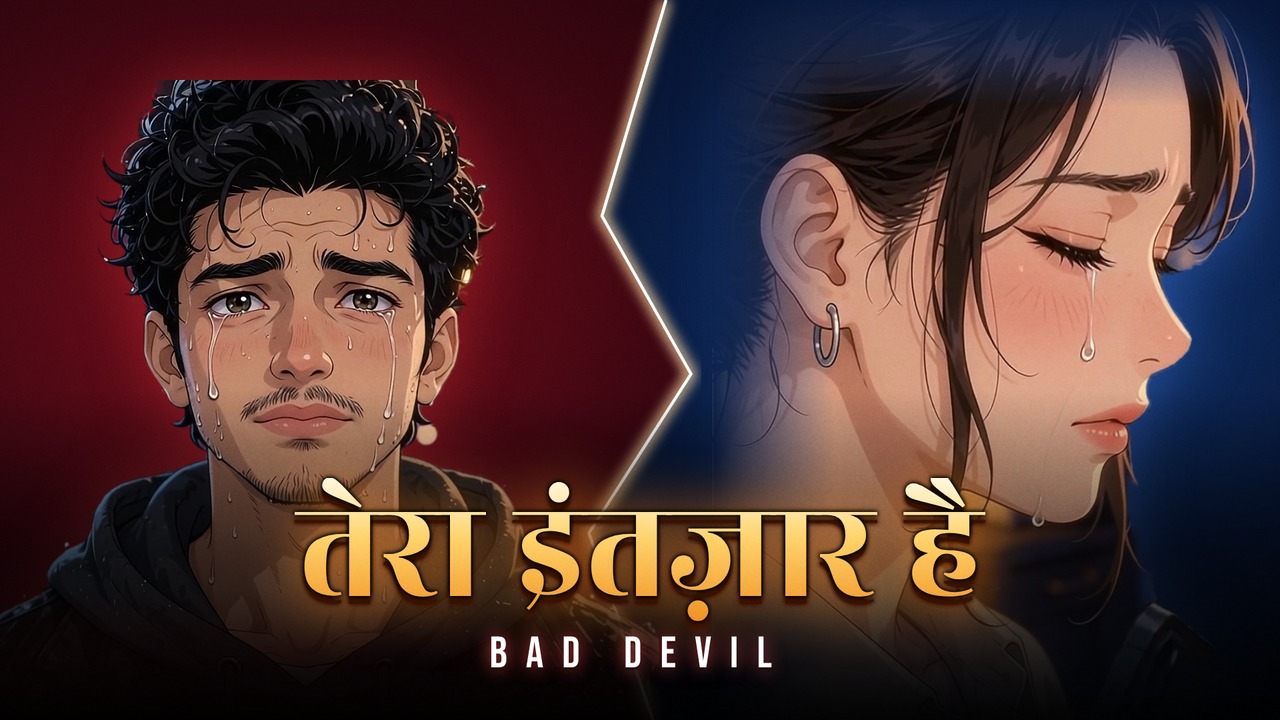
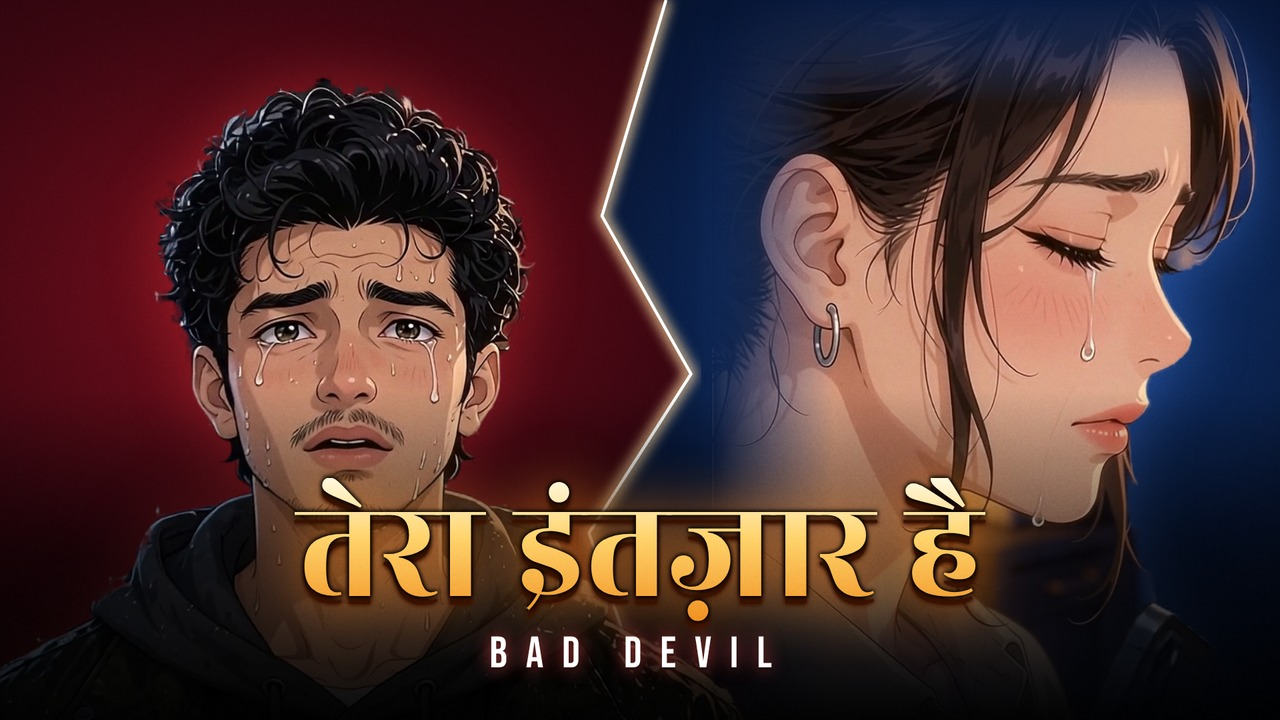
Fix cropped head in Toota Dil thumbnail
Claude-Session: https://claude.ai/code/session_017dD9umPcrcPTaToqqfxVzK

diff --git a/video-demo/thumbnails/v2/source/d1.html b/video-demo/thumbnails/v2/source/d1.html
@@ -2,7 +2,7 @@
 .L { position:absolute; inset:0; background: radial-gradient(ellipse 70% 90% at 22% 40%, #7a0f1d 0%, #3a0610 45%, #0b0204 100%); clip-path: polygon(0 0,52% 0,47% 30%,54% 52%,46% 74%,51% 100%,0 100%); }
 .R { position:absolute; inset:0; background: radial-gradient(ellipse 70% 90% at 78% 40%, #123a7a 0%, #08183a 45%, #020510 100%); clip-path: polygon(52% 0,100% 0,100% 100%,51% 100%,46% 74%,54% 52%,47% 30%); }
 svg { position:absolute; inset:0; }
-.boy { height: 640px; left: -40px; bottom: 0;  -webkit-mask-image: linear-gradient(to bottom,#000 80%,transparent 100%); }
+.boy { height: 880px; left: -95px; bottom: -235px;  -webkit-mask-image: linear-gradient(to bottom,#000 80%,transparent 100%); }
 .w-boy { position:absolute; inset:0; filter: drop-shadow(0 0 30px rgba(255,60,60,.35)); }
 .girl { height: 760px; right: 20px; bottom: -40px;  -webkit-mask-image: linear-gradient(to right, transparent 0%, #000 22%), linear-gradient(to bottom, transparent 0%, #000 14%, #000 78%, transparent 100%); -webkit-mask-composite: source-in; mask-composite: intersect; }
 .w-girl { position:absolute; inset:0; filter: drop-shadow(0 0 30px rgba(80,140,255,.4)); }
@@ -16,7 +16,7 @@ svg { position:absolute; inset:0; }
 <svg viewBox="0 0 1280 720"><defs><filter id="g"><feGaussianBlur stdDeviation="6"/></filter></defs>
 <polyline points="666,0 602,216 691,374 589,533 653,720" fill="none" stroke="#ffd9a0" stroke-width="10" filter="url(#g)" opacity=".9"/>
 <polyline points="666,0 602,216 691,374 589,533 653,720" fill="none" stroke="#fff" stroke-width="3"/></svg>
-<div class="w-boy"><img class="cut boy" src="img/boy_cry.png"></div><div class="w-girl"><img class="cut girl" src="img/girl_cry.png"></div>
+<div class="w-boy"><img class="cut boy" src="img/boy_cry2.png"></div><div class="w-girl"><img class="cut girl" src="img/girl_cry.png"></div>
 <div class="shade"></div>
 <div class="a title">तेरा इंतज़ार है</div><div class="a singer">BAD DEVIL</div>
 <div class="grain"></div></div></body></html>
